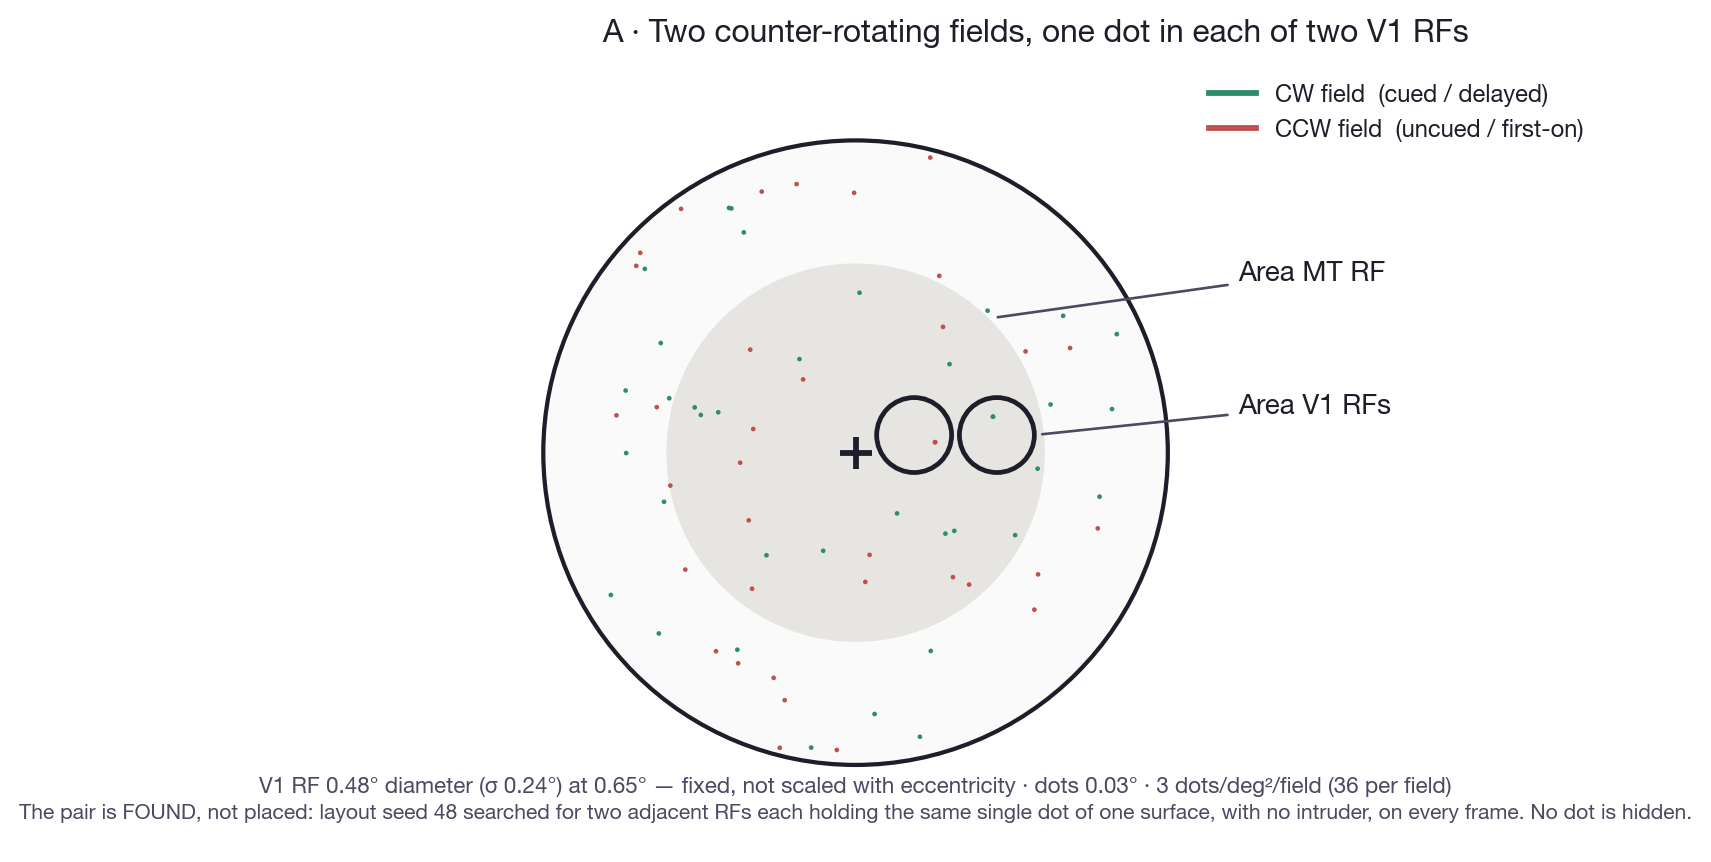
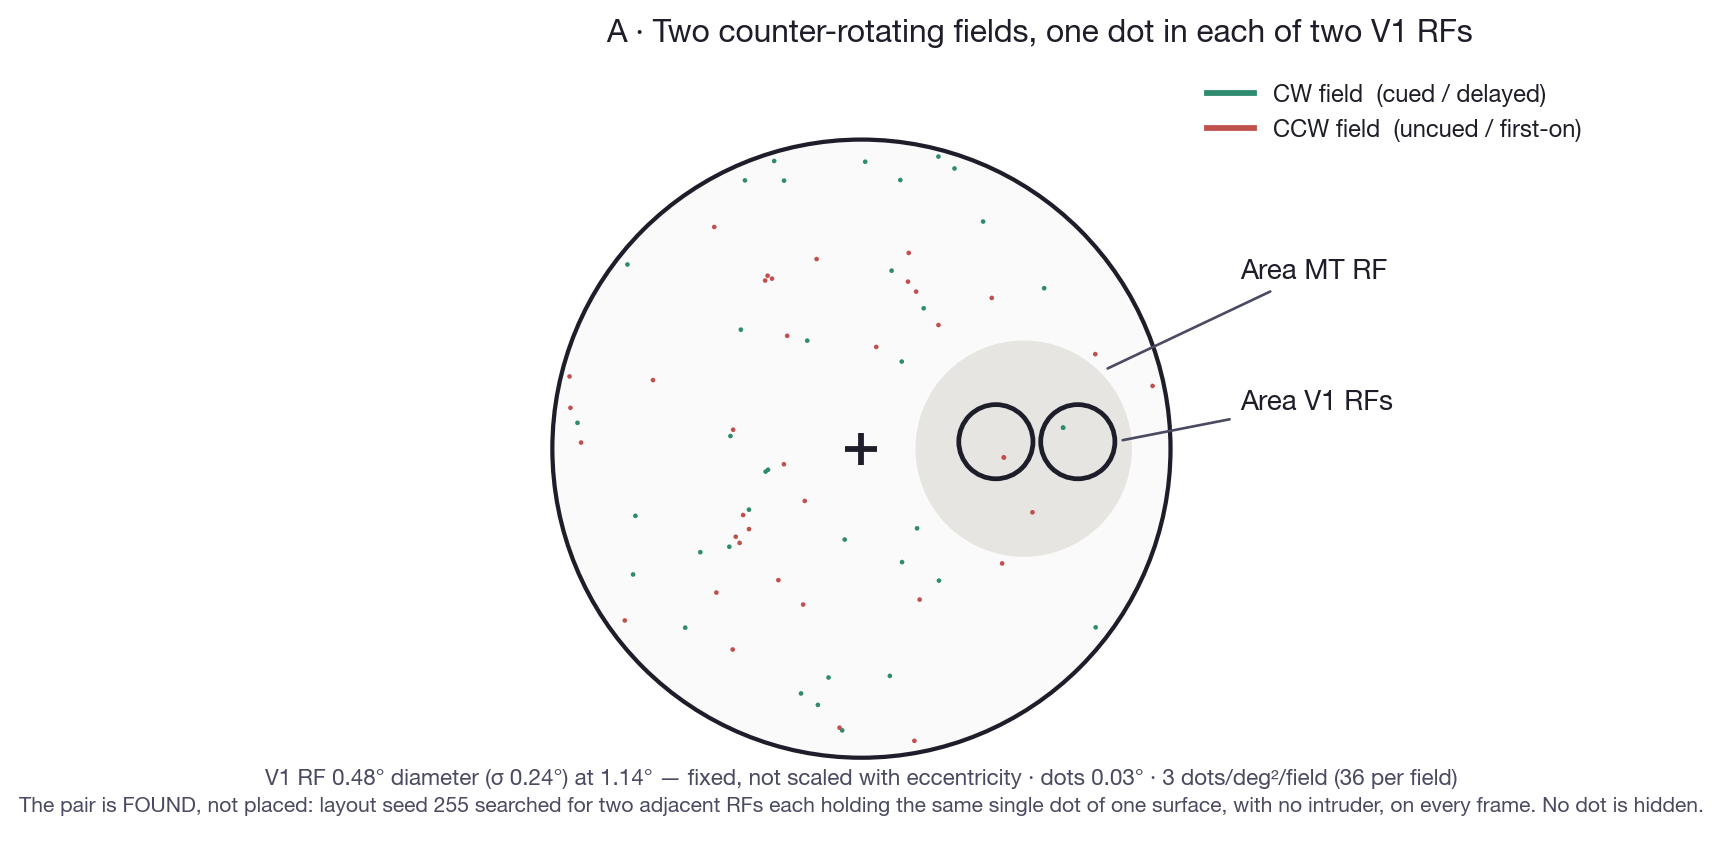
MT RF back to one side of fixation, with the V1 pair inside it
GS: back to the MT RF right of fixation with the V1 RFs inside — the
fig_modelI_stimulus composition. Do what it takes.

MT RF is a fixed constant again: centre (1.05, 0), radius 0.70 = 35% of the
aperture radius, matching fig_modelI's proportions.

What it took was inverting the search rather than loosening anything. Instead of
scanning eccentricity x angle over the whole display and hoping the result sits
somewhere convenient, the search now scans a grid of pair-centre offsets INSIDE
the disc of radius

    _PLAY = MT_R - SEP/2 - RF_R = 0.70 - 0.265 - 0.24 = 0.195 deg

Every offset in that disc keeps both V1 RFs wholly inside the MT RF, so "the V1
RFs are inside the MT RF" is guaranteed by the search space itself rather than
checked afterwards or arranged by eye. The purity and identity-persistence tests
are unchanged; only where we look has changed.

  found: layout seed 255, pair centre 1.136 deg from fixation, offset
         (+0.09,+0.05) of an allowed 0.195; A#29 (red) / B#24 (green)
  containment 1.86x (left) and 1.64x (right)

Ranking by how well centred the dots stay is kept, with an early exit once a pair
clears 1.55x, so the search does not grind through 400 seeds for a marginal gain.

Not pushed — travelling.

diff --git a/Agents/Modeling/sb2010/ps_two_rf_figure.py b/Agents/Modeling/sb2010/ps_two_rf_figure.py
@@ -86,7 +86,14 @@ RF_GAP_DEG   = 0.05                 # clear gap so the two RF circles do not tou
 RF_DIAM_DEG  = 2 * SIGMA_DEG
 RF_R_DEG     = SIGMA_DEG
 _SEP         = RF_DIAM_DEG + RF_GAP_DEG      # centre-to-centre
-MT_MARGIN    = 0.06                 # slack between the pair and the MT RF edge
+
+# ── the MT RF: OFF TO ONE SIDE of fixation, as in fig_modelI_stimulus ──
+MT_ECC_DEG   = 1.05                 # centre, right of fixation
+MT_R_DEG     = 0.70                 # 35% of the aperture radius, matching the
+                                    # proportions of fig_modelI. Chosen for the
+                                    # schematic; the one quantity here without a
+                                    # literature source.
+MT_C         = (MT_ECC_DEG, 0.0)
 
 # ── motion ──
 OMEGA_DEG_S  = 81.0
@@ -97,10 +104,13 @@ TRANS_MS     = 40.0
 TRANSLATING_FIELD = "cued"          # "cued" (green) or "uncued" (red)
 
 # ── the search ──
-SEARCH_SEEDS   = range(1, 300)
+SEARCH_SEEDS   = range(1, 400)
 SEARCH_FRAMES  = 21                 # frames sampled across the whole window
-SEARCH_ECC     = np.arange(0.55, 0.81, 0.05)   # kept near-in so a STIMULUS-CENTRED
-SEARCH_ANG_DEG = np.arange(-25, 26, 5)         # MT RF still contains the pair
+SEARCH_STEP    = 0.04               # grid over allowed pair-centre offsets, deg
+# The pair centre may stray this far from MT_C and still have BOTH V1 RFs fully
+# inside the MT RF — so containment is enforced by the search space itself.
+_PLAY          = MT_R_DEG - _SEP / 2 - RF_R_DEG
+GOOD_ENOUGH    = 1.55               # stop early once a pair this well centred turns up
 
 
 # ═══════════════════════════════════════════════════════════ helpers ══
@@ -161,7 +171,7 @@ def _positions_at(p0, sense, translates, t_s):
     return p
 
 
-def _find_pure_pair(seeds=SEARCH_SEEDS, min_candidates=25):
+def _find_pure_pair(seeds=SEARCH_SEEDS):
     """Search layouts for two adjacent RF-sized regions, each holding exactly one
     dot of ONE surface — the same dot — for every frame of the window, with no
     intrusion from the other surface. Collects qualifying candidates and returns
@@ -170,7 +180,14 @@ def _find_pure_pair(seeds=SEARCH_SEEDS, min_candidates=25):
     layout qualifies.
     """
     ts = np.linspace(0.0, (PRE_MS + TRANS_MS) / 1000.0, SEARCH_FRAMES)
-    cands = []
+    # candidate pair centres: a grid inside the disc of radius _PLAY about MT_C.
+    # Every offset in it keeps BOTH V1 RFs wholly inside the MT RF, so that
+    # containment is guaranteed by construction rather than checked afterwards.
+    offs = [(dx, dy)
+            for dx in np.arange(-_PLAY, _PLAY + 1e-9, SEARCH_STEP)
+            for dy in np.arange(-_PLAY, _PLAY + 1e-9, SEARCH_STEP)
+            if dx * dx + dy * dy <= _PLAY * _PLAY]
+    best = None
     for seed in seeds:
         rng = np.random.default_rng(seed)
         A = _field(N_DOTS, rng)                     # red, CCW, uncued
@@ -179,38 +196,32 @@ def _find_pure_pair(seeds=SEARCH_SEEDS, min_candidates=25):
         trB = (TRANSLATING_FIELD == "cued")
         PA = [_positions_at(A, "CCW", trA, t) for t in ts]
         PB = [_positions_at(B, "CW", trB, t) for t in ts]
-        for ecc in SEARCH_ECC:
-            for ang in np.radians(SEARCH_ANG_DEG):
-                cx, cy = ecc * np.cos(ang), ecc * np.sin(ang)
-                Lc = np.array([cx - _SEP / 2, cy])
-                Rc = np.array([cx + _SEP / 2, cy])
-                inAL = [set(np.where(np.hypot(*(pa - Lc).T) < RF_R_DEG)[0]) for pa in PA]
-                inBR = [set(np.where(np.hypot(*(pb - Rc).T) < RF_R_DEG)[0]) for pb in PB]
-                if any(len(s_) != 1 for s_ in inAL): continue
-                if any(len(s_) != 1 for s_ in inBR): continue
-                iA = set.intersection(*inAL)        # SAME dot on every frame
-                iB = set.intersection(*inBR)
-                if not iA or not iB: continue
-                if any((np.hypot(*(pb - Lc).T) < RF_R_DEG).any() for pb in PB): continue
-                if any((np.hypot(*(pa - Rc).T) < RF_R_DEG).any() for pa in PA): continue
-                jA, jB = iA.pop(), iB.pop()
-                # Score it: how well CENTRED the two dots stay. A qualifying pair
-                # whose dots skim the RF boundary is a true configuration but a
-                # poor illustration, so keep searching and take the best.
-                mA = min(np.hypot(*(pa[jA] - Lc)) for pa in PA), \
-                     max(np.hypot(*(pa[jA] - Lc)) for pa in PA)
-                mB = max(np.hypot(*(pb[jB] - Rc)) for pb in PB)
-                worst = max(mA[1], mB) + DOT_DIAM_DEG / 2
-                cands.append((RF_R_DEG / worst,
-                              dict(seed=seed, A=A, B=B, Lc=Lc, Rc=Rc,
-                                   iA=jA, iB=jB, ecc=float(ecc),
-                                   ang=float(np.degrees(ang)),
-                                   margin=RF_R_DEG / worst)))
-        if len(cands) >= min_candidates:
+        for dx, dy in offs:
+            cx, cy = MT_C[0] + dx, MT_C[1] + dy
+            Lc = np.array([cx - _SEP / 2, cy])
+            Rc = np.array([cx + _SEP / 2, cy])
+            inAL = [set(np.where(np.hypot(*(pa - Lc).T) < RF_R_DEG)[0]) for pa in PA]
+            if any(len(s_) != 1 for s_ in inAL): continue
+            inBR = [set(np.where(np.hypot(*(pb - Rc).T) < RF_R_DEG)[0]) for pb in PB]
+            if any(len(s_) != 1 for s_ in inBR): continue
+            iA = set.intersection(*inAL)            # SAME dot on every frame
+            iB = set.intersection(*inBR)
+            if not iA or not iB: continue
+            if any((np.hypot(*(pb - Lc).T) < RF_R_DEG).any() for pb in PB): continue
+            if any((np.hypot(*(pa - Rc).T) < RF_R_DEG).any() for pa in PA): continue
+            jA, jB = iA.pop(), iB.pop()
+            # Score: how well CENTRED the two dots stay. A qualifying pair whose
+            # dot skims the RF boundary is a true configuration but a poor
+            # illustration, so keep looking and take the best.
+            worst = max(max(np.hypot(*(pa[jA] - Lc)) for pa in PA),
+                        max(np.hypot(*(pb[jB] - Rc)) for pb in PB)) + DOT_DIAM_DEG / 2
+            margin = RF_R_DEG / worst
+            if best is None or margin > best["margin"]:
+                best = dict(seed=seed, A=A, B=B, Lc=Lc, Rc=Rc, iA=jA, iB=jB,
+                            margin=margin, off=(float(dx), float(dy)))
+        if best is not None and best["margin"] >= GOOD_ENOUGH:
             break
-    if not cands:
-        return None
-    return max(cands, key=lambda c: c[0])[1]
+    return best
 
 
 # ── run the search once, at import; everything downstream reads its result ──
@@ -221,18 +232,8 @@ if PAIR is None:
 FIELD_A, FIELD_B = PAIR["A"], PAIR["B"]
 RF_LEFT, RF_RIGHT = tuple(PAIR["Lc"]), tuple(PAIR["Rc"])
 IDX_A, IDX_B = PAIR["iA"], PAIR["iB"]
-ECC_DEG = PAIR["ecc"]
-
-# The MT RF is CENTRED ON THE STIMULUS (GS). The V1 pair therefore sits off-centre
-# inside it, which is fine — an MT RF pools a wide region and the two point-sets
-# need not be at its middle. Its radius is DERIVED: just large enough to contain
-# the found pair. The search is restricted to near-in eccentricities (SEARCH_ECC)
-# precisely so this stays a sensible fraction of the display rather than swallowing
-# it. Note this is still the one quantity here with no literature source — it is
-# set by the geometry it has to contain, not by a measurement of MT.
-MT_C = (0.0, 0.0)
-MT_R_DEG = round(max(np.hypot(*RF_LEFT), np.hypot(*RF_RIGHT))
-                 + RF_R_DEG + MT_MARGIN, 3)
+ECC_DEG = float(np.hypot((RF_LEFT[0] + RF_RIGHT[0]) / 2,
+                         (RF_LEFT[1] + RF_RIGHT[1]) / 2))
 
 
 # ═══════════════════════════════════════════════════════ containment ══
@@ -404,7 +405,7 @@ if __name__ == "__main__":
     print(f"  layout seed  {PAIR['seed']}")
     print(f"  centres      L {RF_LEFT[0]:+.3f},{RF_LEFT[1]:+.3f}   "
           f"R {RF_RIGHT[0]:+.3f},{RF_RIGHT[1]:+.3f}")
-    print(f"  eccentricity {ECC_DEG:.3f} deg, polar angle {PAIR['ang']:+.0f} deg")
+    print(f"  eccentricity {ECC_DEG:.3f} deg")
     print(f"  dots         field A #{IDX_A} (red, left), field B #{IDX_B} (green, right)")
     print(f"  guarantee    same dot in each RF on all {SEARCH_FRAMES} sampled frames,"
           f" no intruder from the other surface")
